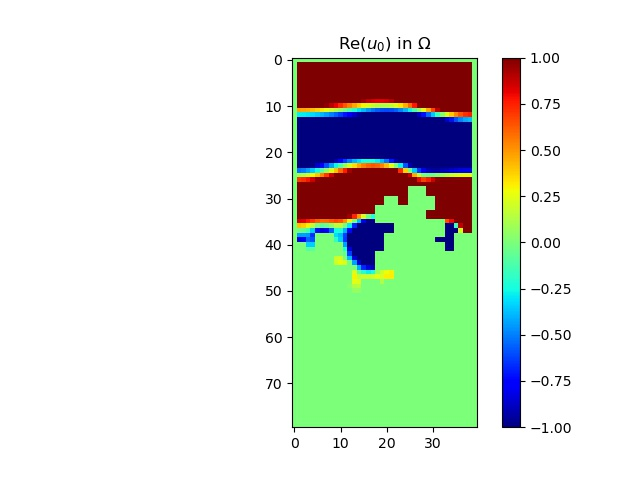
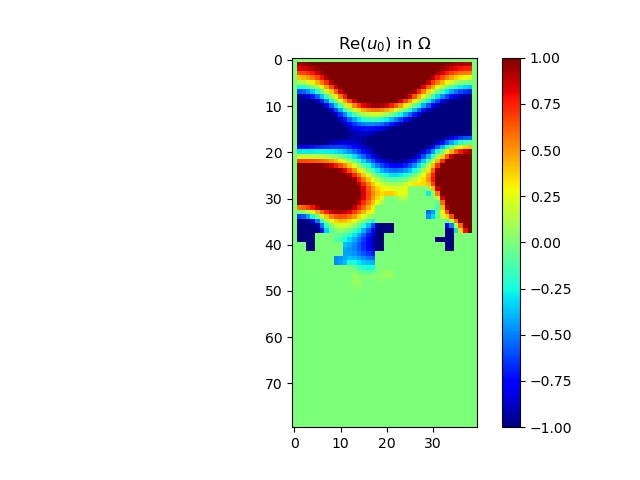
br

Changed region(s): [[0.4375, 0.125, 0.75, 0.5938]]

diff --git a/demo_control_polycopie.py b/demo_control_polycopie.py
@@ -19,7 +19,10 @@ import preprocessing
 import processing
 import postprocessing
 import alpha_compute
+import pdb
 #import solutions
+
+import random
 
 
 def your_optimization_procedure(domain_omega, spacestep, wavenumber, f, f_dir, f_neu, f_rob,
@@ -27,7 +30,7 @@ def your_optimization_procedure(domain_omega, spacestep, wavenumber, f, f_dir, f
                                 Alpha, mu, chi, V_obj, mu1, V_0):
 
     eps1 = 0.01
-    eps2_0 = 60
+    eps2_0 = 100
     eps2 = eps2_0
     eps0 = 0.00001
     """This function return the optimized density.
@@ -46,6 +49,7 @@ def your_optimization_procedure(domain_omega, spacestep, wavenumber, f, f_dir, f
     (M, N) = numpy.shape(domain_omega)
     numb_iter = 20
     energy = numpy.zeros((numb_iter+1, 1), dtype=numpy.float64)
+
     while k < numb_iter and mu > eps0:
         print('---- iteration number = ', k)
         print('1. computing solution of Helmholtz problem, i.e., u')
@@ -98,7 +102,9 @@ def your_optimization_procedure(domain_omega, spacestep, wavenumber, f, f_dir, f
                 chi_next = projector(chi-mu*Jp, l, domain_omega)
                 int = integral(chi_next)
                 eps2 /= 2
-                print(int, V_obj)
+                # print(V_obj, int, eps2, l)
+                # postprocessing._plot_perso_solution(chi_next, chi*0)
+
             postprocessing._plot_perso_solution(chi_next, chi*0)
             # print('    c. computing solution of Helmholtz problem, i.e., u')
             alpha_rob = Alpha * chi_next
@@ -113,7 +119,6 @@ def your_optimization_procedure(domain_omega, spacestep, wavenumber, f, f_dir, f
             print("Energy = ", ene)
 
             energy[k+1] = ene
-
             if ene < energy[k]:
                 # The step is increased if the energy decreased
                 mu = mu * 1.1
@@ -222,10 +227,19 @@ if __name__ == '__main__':
     # -- initialize
     alpha_rob[:, :] = - wavenumber * 1j
 
+    # indices = []
+    # for i in range(int(len(x)*2/5)):
+    #     a = random.randint(0, len(x)-1)
+    #     if a not in indices:
+    #         indices.append(a)
+    # indices.sort()
+
     # -- define subset of border on which we put the liner
     # modify this to change liners distribution
-    indices = list(range(0*(len(x)-1)//10, 4*(len(x)-1)//10))
-    # indices.extend(list(range(3*(len(x)-1)//5, 4*(len(x)-1)//5)))
+
+    indices = list(range(2*(len(x)-1)//10, 4*(len(x)-1)//10))
+
+    indices.extend(list(range(6*(len(x)-1)//10, 8*(len(x)-1)//10)))
     # print(indices)
 
     # budget : percentage of the border we can cover with liners
@@ -256,7 +270,7 @@ if __name__ == '__main__':
     V_0 = 1  # initial volume of the domain
     # V_obj = numpy.sum(numpy.sum(chi)) / S  # constraint on the density
     V_obj = numpy.sum(numpy.sum(chi))
-    mu = 20  # initial gradient step
+    mu = 1000000  # initial gradient step
     mu1 = 10**(-5)  # parameter of the volume functional
 
     # ----------------------------------------------------------------------
